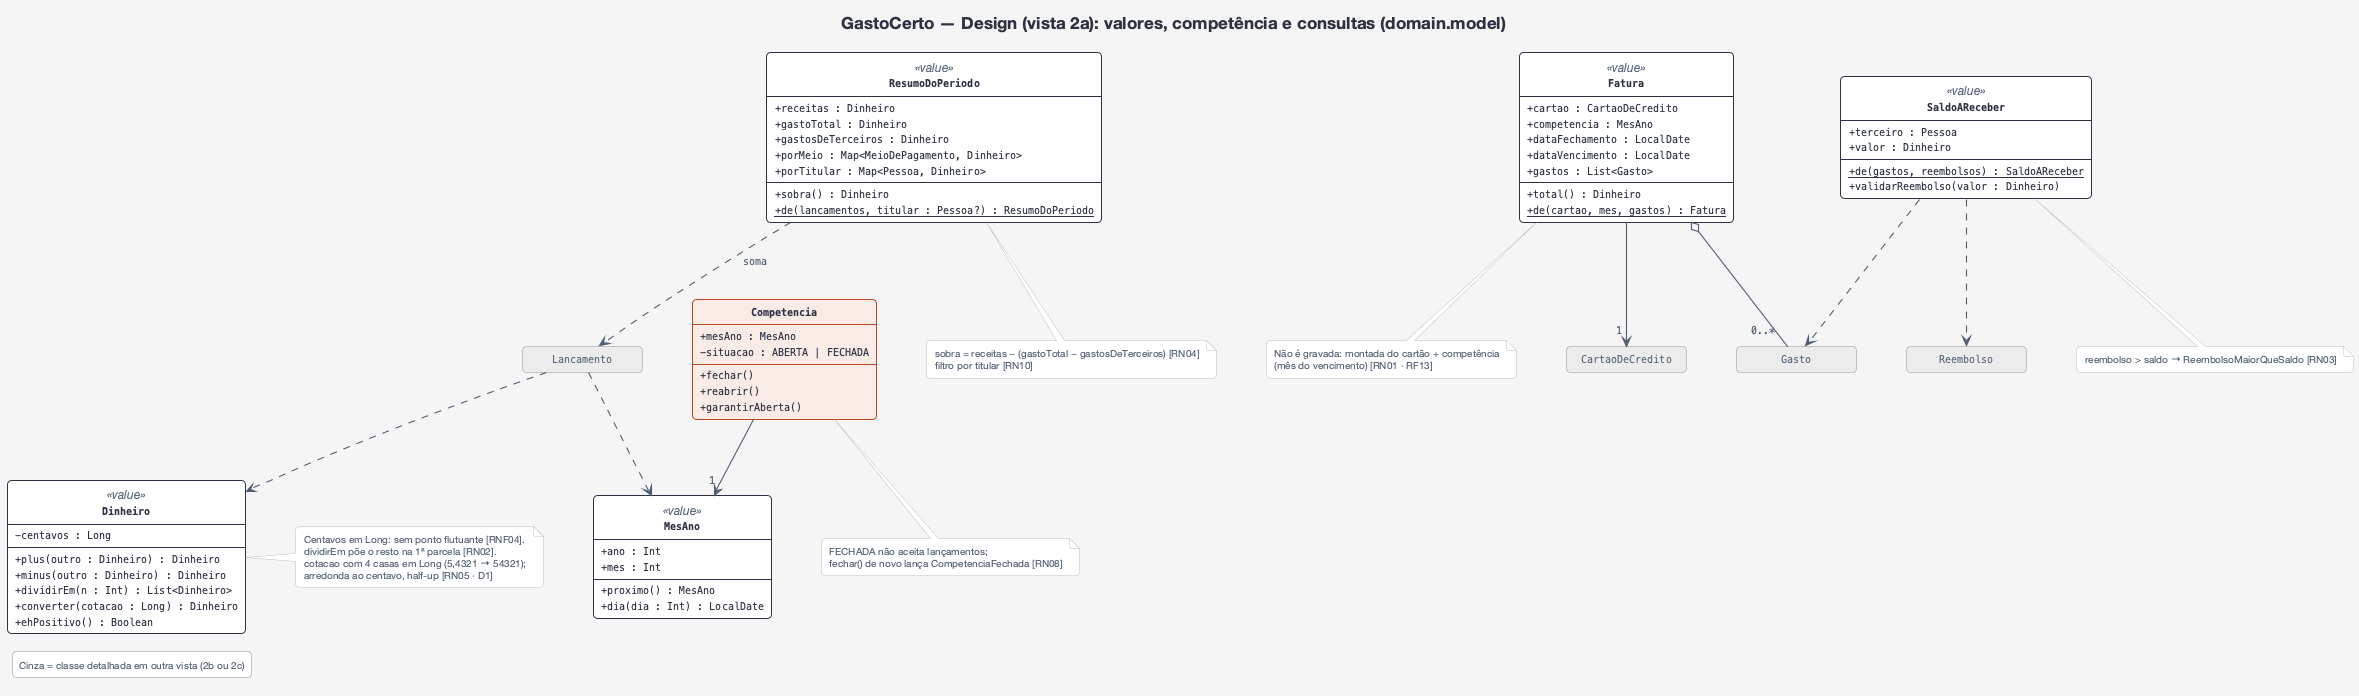
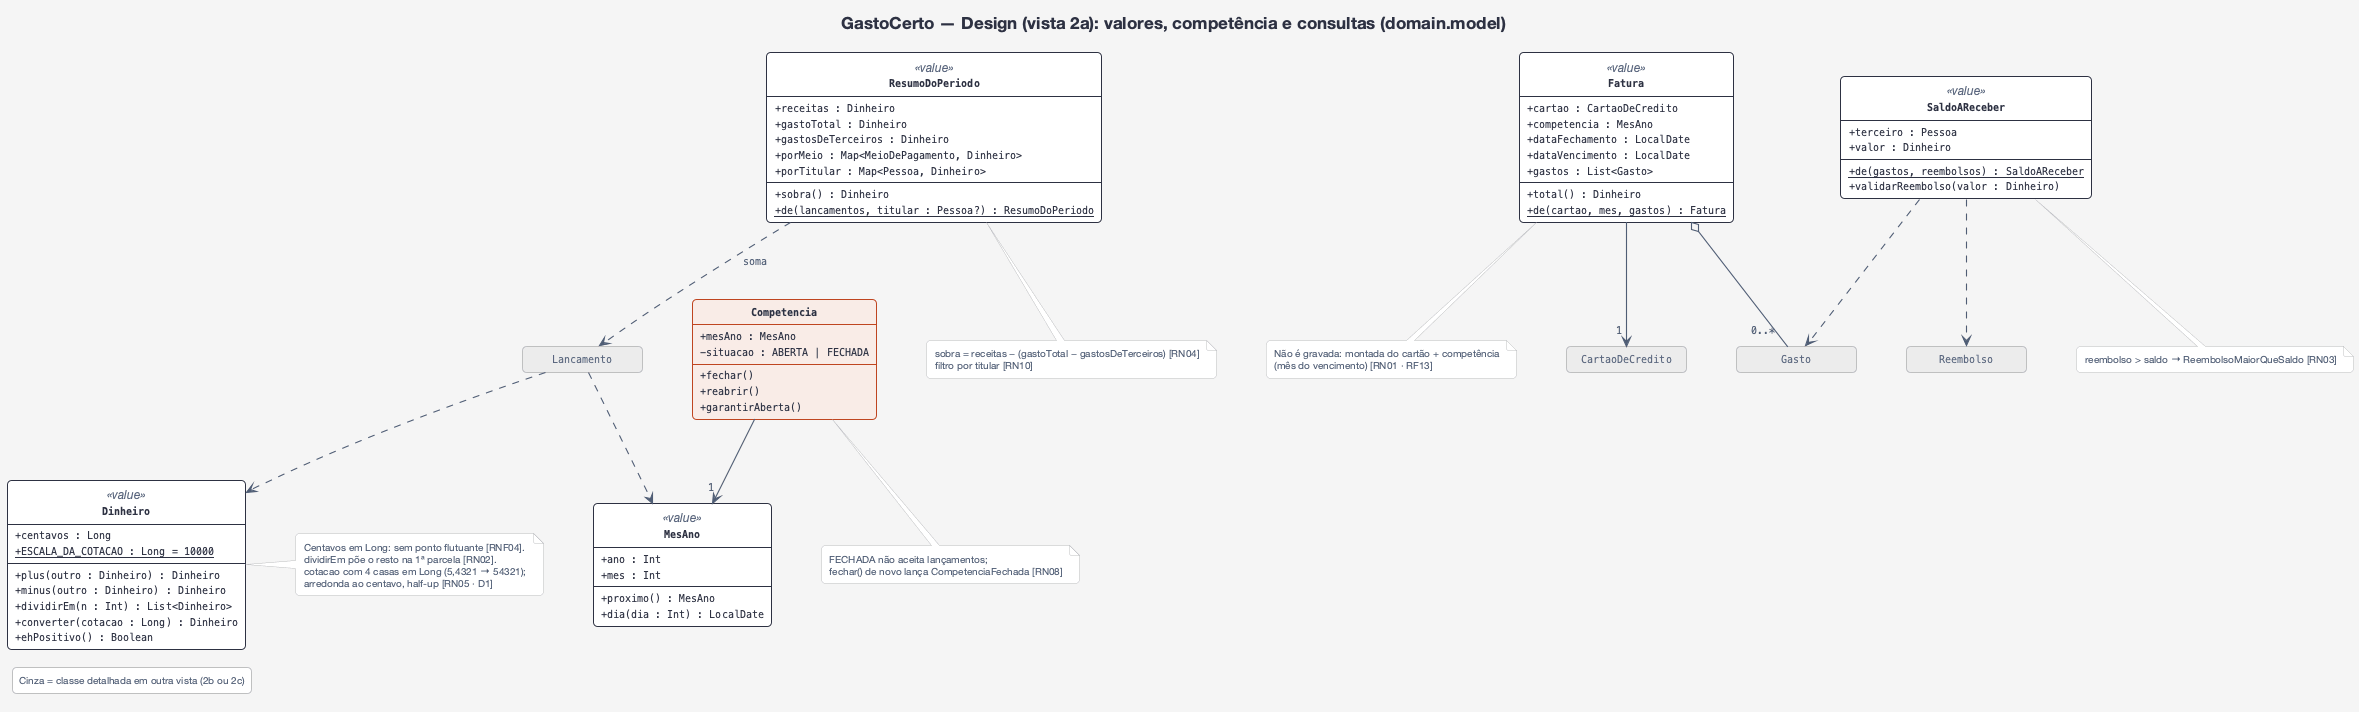
feat(domain): Dinheiro e MesAno com divisão em parcelas (RN02), conversão cambial (RN05) e dia inexistente (RN06)

diff --git a/shared/src/commonTest/kotlin/br/com/gabriel/gastocerto/domain/model/DinheiroTest.kt b/shared/src/commonTest/kotlin/br/com/gabriel/gastocerto/domain/model/DinheiroTest.kt
@@ -1,0 +1,96 @@
+package br.com.gabriel.gastocerto.domain.model
+
+import kotlin.test.Test
+import kotlin.test.assertEquals
+import kotlin.test.assertFailsWith
+import kotlin.test.assertFalse
+import kotlin.test.assertTrue
+
+class DinheiroTest {
+
+    // ---------- RNF04: precisão exata em centavos ----------
+
+    @Test
+    fun `RNF04 - soma e subtrai em centavos sem erro de ponto flutuante`() {
+        // 0,10 + 0,20 = 0,30 exato (em Double daria 0,30000000000000004)
+        assertEquals(Dinheiro(30), Dinheiro(10) + Dinheiro(20))
+        assertEquals(Dinheiro(-5_000), Dinheiro(10_000) - Dinheiro(15_000))
+    }
+
+    @Test
+    fun `RNF04 - mil somas de um centavo resultam em exatamente dez reais`() {
+        val total = (1..1_000).fold(Dinheiro(0)) { acc, _ -> acc + Dinheiro(1) }
+        assertEquals(Dinheiro(1_000), total)
+    }
+
+    // ---------- RN02: divisão em parcelas, resto na 1ª ----------
+
+    @Test
+    fun `RN02 - divide 100 reais em 3 parcelas sem perder centavos`() {
+        val parcelas = Dinheiro(10_000).dividirEm(3)
+
+        assertEquals(listOf(Dinheiro(3_334), Dinheiro(3_333), Dinheiro(3_333)), parcelas)
+        assertEquals(Dinheiro(10_000), parcelas.reduce(Dinheiro::plus))
+    }
+
+    @Test
+    fun `RN02 - divisao exata nao deixa resto`() {
+        assertEquals(List(4) { Dinheiro(2_500) }, Dinheiro(10_000).dividirEm(4))
+    }
+
+    @Test
+    fun `RN02 - divide em 48 parcelas e a soma continua igual ao total`() {
+        val total = Dinheiro(123_457)
+        val parcelas = total.dividirEm(48)
+
+        assertEquals(48, parcelas.size)
+        assertEquals(total, parcelas.reduce(Dinheiro::plus))
+        assertEquals(Dinheiro(2_572 + 1), parcelas.first()) // 123457 = 48 × 2572 + 1
+        assertTrue(parcelas.drop(1).all { it == Dinheiro(2_572) })
+    }
+
+    @Test
+    fun `RN02 - dividir em zero partes e rejeitado`() {
+        assertFailsWith<IllegalArgumentException> { Dinheiro(10_000).dividirEm(0) }
+    }
+
+    // ---------- RN05: conversão de moeda estrangeira (D1) ----------
+
+    @Test
+    fun `RN05 - converte dolares para reais pela cotacao com 4 casas`() {
+        // US$ 12,50 × 5,4321 = R$ 67,90125 → R$ 67,90
+        assertEquals(Dinheiro(6_790), Dinheiro(1_250).converter(cotacao = 54_321))
+    }
+
+    @Test
+    fun `RN05 - arredonda meio centavo para cima - half-up`() {
+        // US$ 0,01 × 0,5000 = R$ 0,005 → R$ 0,01
+        assertEquals(Dinheiro(1), Dinheiro(1).converter(cotacao = 5_000))
+        // US$ 0,01 × 0,4999 = R$ 0,004999 → R$ 0,00
+        assertEquals(Dinheiro(0), Dinheiro(1).converter(cotacao = 4_999))
+    }
+
+    @Test
+    fun `RN05 - cotacao 1 mantem o valor`() {
+        assertEquals(Dinheiro(98_765), Dinheiro(98_765).converter(cotacao = Dinheiro.ESCALA_DA_COTACAO))
+    }
+
+    @Test
+    fun `RN05 - cotacao zero ou negativa e rejeitada`() {
+        assertFailsWith<IllegalArgumentException> { Dinheiro(1_250).converter(cotacao = 0) }
+        assertFailsWith<IllegalArgumentException> { Dinheiro(1_250).converter(cotacao = -54_321) }
+    }
+
+    // ---------- RN09: valor positivo ----------
+
+    @Test
+    fun `RN09 - valor maior que zero e positivo`() {
+        assertTrue(Dinheiro(1).ehPositivo())
+    }
+
+    @Test
+    fun `RN09 - valor zero ou negativo nao e positivo`() {
+        assertFalse(Dinheiro(0).ehPositivo())
+        assertFalse(Dinheiro(-1).ehPositivo())
+    }
+}

diff --git a/shared/src/commonMain/kotlin/br/com/gabriel/gastocerto/domain/model/Dinheiro.kt b/shared/src/commonMain/kotlin/br/com/gabriel/gastocerto/domain/model/Dinheiro.kt
@@ -1,0 +1,63 @@
+package br.com.gabriel.gastocerto.domain.model
+
+import kotlin.jvm.JvmInline
+
+/**
+ * Valor monetário em **centavos** (`Long`), sem ponto flutuante — RNF04.
+ *
+ * Os cálculos de dinheiro ficam aqui (Information Expert): soma, subtração,
+ * divisão em parcelas sem perder centavos (RN02) e conversão de moeda estrangeira (RN05).
+ * Pode ser negativo (ex.: sobra de um mês com mais gastos que receitas).
+ */
+@JvmInline
+value class Dinheiro(val centavos: Long) {
+
+    operator fun plus(outro: Dinheiro): Dinheiro = Dinheiro(centavos + outro.centavos)
+
+    operator fun minus(outro: Dinheiro): Dinheiro = Dinheiro(centavos - outro.centavos)
+
+    /**
+     * RN02 – divide o valor em [n] partes iguais em centavos; **o resto vai para a 1ª parte**.
+     * A soma das partes é sempre igual ao valor original (ex.: R$ 100,00 em 3 = 33,34 + 33,33 + 33,33).
+     *
+     * O limite de 2 a 48 parcelas é regra de negócio e é validado na criação da compra
+     * (`FabricaDeLancamentos`); aqui só se exige [n] ≥ 1.
+     */
+    fun dividirEm(n: Int): List<Dinheiro> {
+        require(n >= 1) { "n deve ser pelo menos 1, mas foi $n" }
+        val base = centavos / n
+        val resto = centavos % n
+        return List(n) { i -> Dinheiro(if (i == 0) base + resto else base) }
+    }
+
+    /**
+     * RN05 – converte um valor em moeda estrangeira para reais.
+     *
+     * Este [Dinheiro] está em centavos da moeda estrangeira; [cotacao] tem 4 casas decimais
+     * em `Long` (5,4321 → `54321`), decisão D1. Resultado = centavos × cotação ÷ 10.000,
+     * arredondado ao centavo pelo critério *half-up* (0,5 centavo arredonda para longe do zero).
+     *
+     * A cotação precisa ser maior que zero; a mensagem de regra (`CotacaoInvalida`) é
+     * lançada antes, na criação do gasto.
+     */
+    fun converter(cotacao: Long): Dinheiro {
+        require(cotacao > 0) { "cotação deve ser maior que zero, mas foi $cotacao" }
+        val produto = centavos * cotacao
+        val quociente = produto / ESCALA_DA_COTACAO
+        val resto = produto % ESCALA_DA_COTACAO
+        val arredondamento = when {
+            resto * 2 >= ESCALA_DA_COTACAO -> 1
+            resto * 2 <= -ESCALA_DA_COTACAO -> -1
+            else -> 0
+        }
+        return Dinheiro(quociente + arredondamento)
+    }
+
+    /** RN09 – um valor de lançamento só é válido se for maior que zero. */
+    fun ehPositivo(): Boolean = centavos > 0
+
+    companion object {
+        /** Cotação com 4 casas decimais: 1,0000 = 10.000 (D1). */
+        const val ESCALA_DA_COTACAO: Long = 10_000
+    }
+}

diff --git a/shared/src/commonTest/kotlin/br/com/gabriel/gastocerto/domain/model/MesAnoTest.kt b/shared/src/commonTest/kotlin/br/com/gabriel/gastocerto/domain/model/MesAnoTest.kt
@@ -1,0 +1,51 @@
+package br.com.gabriel.gastocerto.domain.model
+
+import kotlinx.datetime.LocalDate
+import kotlin.test.Test
+import kotlin.test.assertEquals
+import kotlin.test.assertFailsWith
+
+class MesAnoTest {
+
+    @Test
+    fun `proximo avanca um mes no mesmo ano`() {
+        assertEquals(MesAno(2026, 12), MesAno(2026, 11).proximo())
+    }
+
+    @Test
+    fun `proximo de dezembro e janeiro do ano seguinte`() {
+        assertEquals(MesAno(2027, 1), MesAno(2026, 12).proximo())
+    }
+
+    @Test
+    fun `mes fora de 1 a 12 e rejeitado`() {
+        assertFailsWith<IllegalArgumentException> { MesAno(2026, 0) }
+        assertFailsWith<IllegalArgumentException> { MesAno(2026, 13) }
+    }
+
+    @Test
+    fun `RN06 - dia existente no mes vira a propria data`() {
+        assertEquals(LocalDate(2026, 11, 12), MesAno(2026, 11).dia(12))
+    }
+
+    @Test
+    fun `RN06 - dia 31 em mes de 30 dias vira o ultimo dia`() {
+        assertEquals(LocalDate(2026, 11, 30), MesAno(2026, 11).dia(31))
+    }
+
+    @Test
+    fun `RN06 - dia 30 em fevereiro de ano comum vira dia 28`() {
+        assertEquals(LocalDate(2027, 2, 28), MesAno(2027, 2).dia(30))
+    }
+
+    @Test
+    fun `RN06 - dia 30 em fevereiro de ano bissexto vira dia 29`() {
+        assertEquals(LocalDate(2028, 2, 29), MesAno(2028, 2).dia(30))
+    }
+
+    @Test
+    fun `RN09 - dia fora de 1 a 31 e rejeitado`() {
+        assertFailsWith<IllegalArgumentException> { MesAno(2026, 11).dia(0) }
+        assertFailsWith<IllegalArgumentException> { MesAno(2026, 11).dia(32) }
+    }
+}

diff --git a/shared/src/commonMain/kotlin/br/com/gabriel/gastocerto/domain/model/MesAno.kt b/shared/src/commonMain/kotlin/br/com/gabriel/gastocerto/domain/model/MesAno.kt
@@ -1,0 +1,32 @@
+package br.com.gabriel.gastocerto.domain.model
+
+import kotlinx.datetime.LocalDate
+import kotlinx.datetime.YearMonth
+
+/**
+ * Mês de um ano (ex.: novembro de 2026): a **competência** à qual um lançamento pertence.
+ *
+ * Usado pela RN01 (mês da fatura), pela RN06/RN07 (dia de vencimento/recebimento dos previstos)
+ * e pelo fechamento do mês (UC03).
+ */
+data class MesAno(val ano: Int, val mes: Int) {
+
+    init {
+        require(mes in 1..12) { "mês deve estar entre 1 e 12, mas foi $mes" }
+    }
+
+    /** O mês seguinte (dezembro vira janeiro do ano seguinte). */
+    fun proximo(): MesAno = if (mes == 12) MesAno(ano + 1, 1) else MesAno(ano, mes + 1)
+
+    /**
+     * A data deste mês no [dia] informado. **Dia inexistente no mês vira o último dia do mês**
+     * (ex.: dia 31 em fevereiro de 2027 → 28/02/2027), regra usada pelas contas fixas (RN06),
+     * pelo salário (RN07) e pelo fechamento do cartão (RN01).
+     */
+    fun dia(dia: Int): LocalDate {
+        require(dia in 1..31) { "dia deve estar entre 1 e 31, mas foi $dia" }
+        return LocalDate(ano, mes, minOf(dia, quantidadeDeDias()))
+    }
+
+    private fun quantidadeDeDias(): Int = YearMonth(ano, mes).numberOfDays
+}
